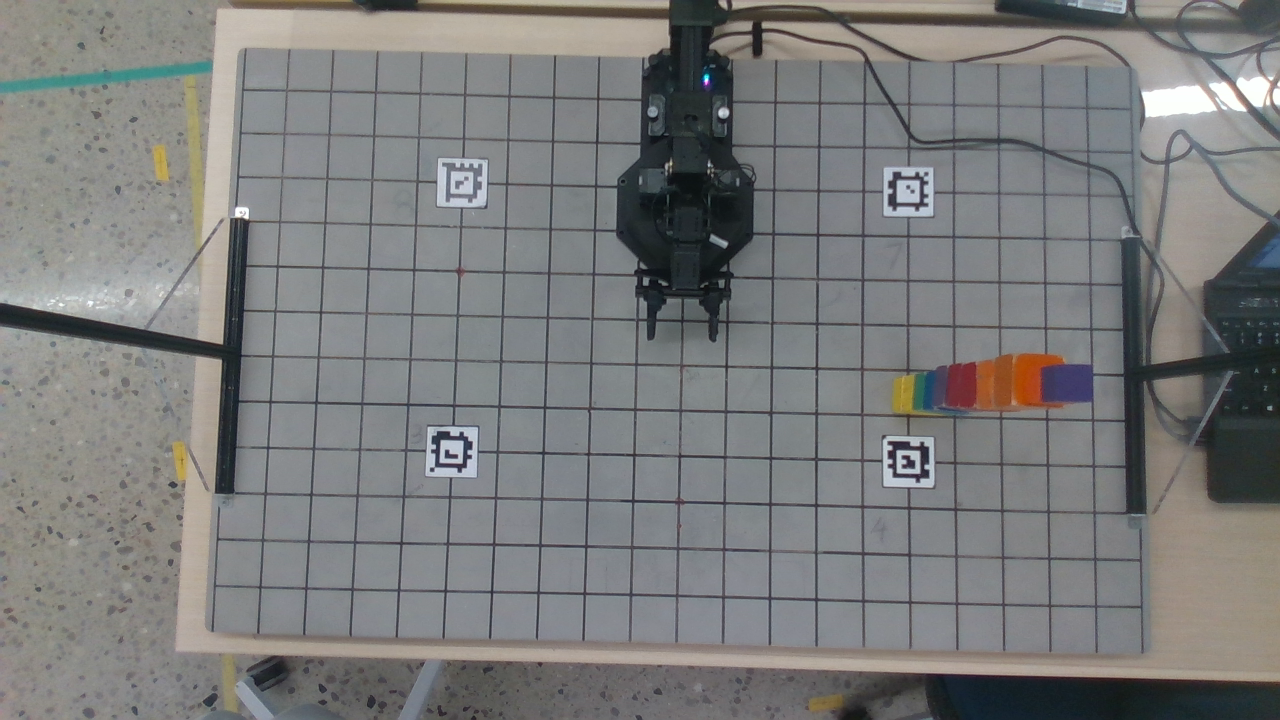
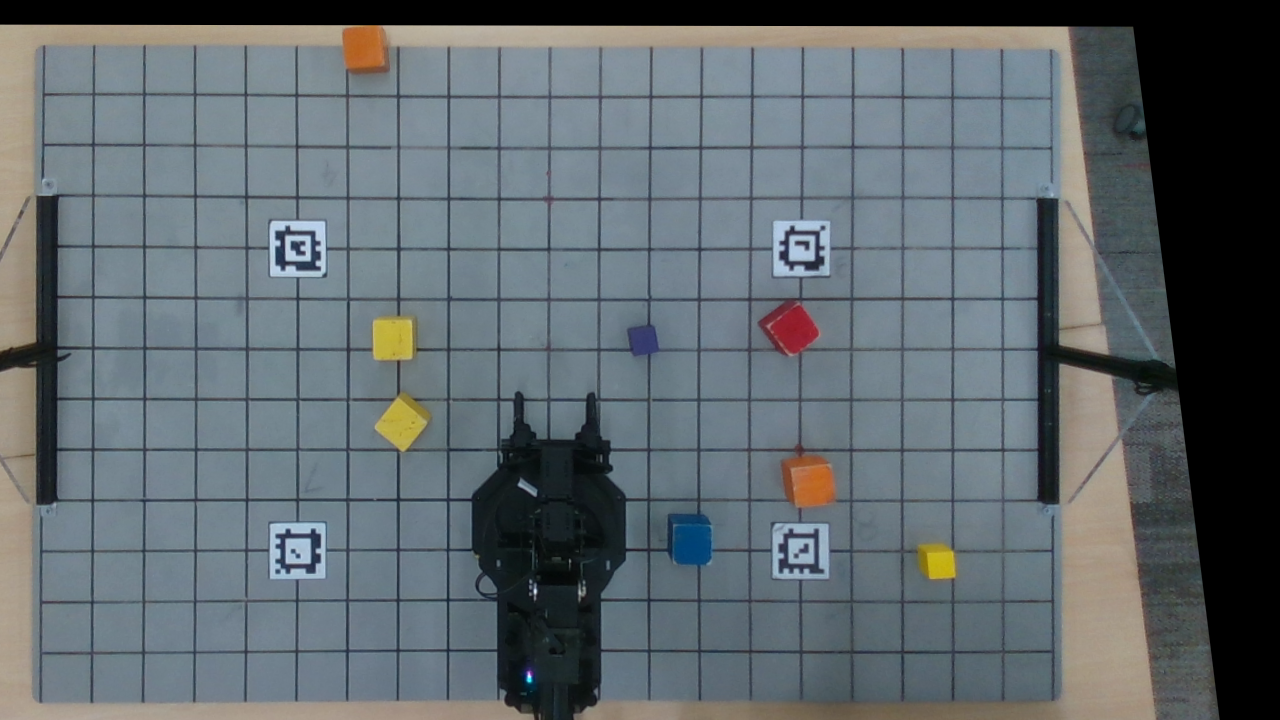
start on validating arm path in the case of nearby obstacle

diff --git a/src/state_machine.py b/src/state_machine.py
@@ -10,6 +10,7 @@ import copy
 import math 
 import cv2
 from kinematics import clamp
+import modern_robotics as mr
 
 
 class StateMachine():
@@ -242,7 +243,6 @@ class StateMachine():
         d = self.camera.DepthFrameRaw[pt[1]][pt[0]]
         print(f"pixelX: {pt[0]}, pixelY: {pt[1]}, depth: {d}")
         self.rxarm.arm.get_joint_positions()
-        print(f"EE angle: {self.rxarm.get_ee_angles()}")
 
 
         self.camera.pixel_to_World(pt[0], pt[1],d) # more accurate
@@ -291,8 +291,6 @@ class StateMachine():
 
     def auto_pick(self, _target_world_pos, block_ori, phi=np.pi/2, double_check=False, to_sky=False):
 
-        # phi = self.rxarm.get_ee_angles()
-        # print(f"phi {phi}")
         
         target_world_pos = copy.deepcopy(_target_world_pos)
         above_world_pos = copy.deepcopy(_target_world_pos)
@@ -310,47 +308,113 @@ class StateMachine():
         ############ Planning #############
         # print("[PICK] Planning waypoints...")
         pick_stable = True
-        pick_height_offset = 100    
+
+        # determine if final pose is reachable, exit if not
+        current_joints = self.rxarm.arm.get_joint_commands()
+
+
+        
+        joint_angles_2, reachable_low = self.rxarm.arm.set_ee_pose_components(x=target_world_pos[1]/1000, # (x,y) plane of robot and world frame is rotated
+                                                                            y=-target_world_pos[0]/1000, # motor's x axis is flipped
+                                                                            z=((target_world_pos[2]/1000)), # position converted to meters
+                                                                            pitch = phi,
+                                                                            moving_time = 4,
+                                                                            execute = False)
+        
+        pick_height_offset = 0
+        if target_world_pos[2] > 100:
+            pick_height_offset = 40  # smaller height offset in case the goal becomes unreachable
+        else:
+            pick_height_offset = 100    
+
         target_world_pos[2] = target_world_pos[2]  + pick_height_offset
+
+
+
+        
+        
+        if not reachable_low:
+            print("final EE pose is not reachable")
+            return
+
+
+
+
+
+        # Define how long the move takes and how many waypoints to check
+        time_in_seconds = 4.0
+        number_of_waypoints = 100 # Higher number = finer resolution for obstacle checking
+
+        #  generates a path to final destination
+        trajectory = mr.JointTrajectory(current_joints, joint_angles_2, time_in_seconds, number_of_waypoints, 3)
+
+        
 
        # reachable_low, reachable_high = False, False
 
         # Try vertical reach with phi = pi/2
         # this function computes the path to get to the final EE and execute it if its valid
-        joint_angles_2, reachable_low = self.rxarm.arm.set_ee_pose_components(x=target_world_pos[1]/1000, # (x,y) plane of robot and world frame is rotated
-                                                                              y=-target_world_pos[0]/1000, # motor's x axis is flipped
-                                                                              z=target_world_pos[2]/1000, # position converted to meters
-                                                                              pitch = phi,
-                                                                              moving_time =2,
-                                                                              blocking= True,
-                                                                              execute = True)
+        # joint_angles_2, reachable_low = self.rxarm.arm.set_ee_pose_components(x=target_world_pos[1]/1000, # (x,y) plane of robot and world frame is rotated
+        #                                                                       y=-target_world_pos[0]/1000, # motor's x axis is flipped
+        #                                                                       z=(target_world_pos[2])/1000, # position converted to meters
+        #                                                                       pitch = phi,
+        #                                                                       moving_time =2,
+        #                                                                       blocking= True,
+        #                                                                       execute = True)
     
+        for angles in trajectory:
+            self.rxarm.set_positions(angles)
+            
+
+        # TODO: inside this function, check if there's obstacles. if so, don't execute the motor command
+        # success = self.rxarm.arm.set_ee_cartesian_trajectory(x=target_world_pos[1]/1000, # (x,y) plane of robot and world frame is rotated
+        #                                             y=-target_world_pos[0]/1000, # motor's x axis is flipped
+        #                                             z=(target_world_pos[2])/1000, # position converted to meters
+        #                                             pitch = phi,
+        #                                             moving_time =2)
+
+        # if success is False:
+        #     print("path to goal failed in autopick")
+        #     return
+        
+
         # EE descends to grab the object
-        descend_offset = (-pick_height_offset+10)/1000  
-        print(f"descending angles: {joint_angles_2} ")
+        descend_offset = (-pick_height_offset)/1000  
         print("EE descending")        
-        move_time, ac_time = self.calMoveTime(joint_angles_2)
 
         # TODO: orient the wrist to align with object orientation before grasping
-        phi = self.rxarm.get_ee_angles()
-        print(f"before EE phi {phi}")
-        joint_angles_2[-1] = clamp(-joint_angles_2[0]) # parallel to x axis
+        joint_angles_2, valid = self.rxarm.arm.set_ee_pose_components(x=target_world_pos[1]/1000, # (x,y) plane of robot and world frame is rotated
+                                                                            y=-target_world_pos[0]/1000, # motor's x axis is flipped
+                                                                            z=((target_world_pos[2]/1000)), # position converted to meters
+                                                                            pitch = phi,
+                                                                            moving_time = 4,
+                                                                            execute = False)
+        if valid is False:
+            print("failed to descend arm")
+            return
+        
+        print(f"joint angles from path: {joint_angles_2}")
+     
+        joint_angles_2[-1] = joint_angles_2[0] # parallel to x axis
+        print(f"joint angle base: {joint_angles_2[0]}")
 
-       # self.rxarm.arm._publish_commands(joint_angles_2, moving_time=2, accel_time=0, blocking=True)
-        self.rxarm.arm.set_single_joint_position("wrist_rotate", -phi, moving_time=2, accel_time=0, blocking=True)
 
-        phi = self.rxarm.get_ee_angles()
-        print(f"after EE phi {phi}")
 
+        # orient the wrist before descend
+        self.rxarm.arm._publish_commands(joint_angles_2, moving_time=2, accel_time=0, blocking=True)
+
+
+        #TODO: check for obstacle before descending
+        # maintain the orientation while descending
+
+        
         joint_angles_2, reachable_low = self.rxarm.arm.set_ee_pose_components(x=target_world_pos[1]/1000, # (x,y) plane of robot and world frame is rotated
                                                                               y=-target_world_pos[0]/1000, # motor's x axis is flipped
                                                                               z=((target_world_pos[2]/1000)+descend_offset), # position converted to meters
                                                                               pitch = phi,
+                                                                              roll = joint_angles_2[0],
                                                                               moving_time = 4,
                                                                               execute = True)
-
-
-
 
         self.rxarm.gripper_grasp()
         return

diff --git a/src/camera.py b/src/camera.py
@@ -91,6 +91,7 @@ class Camera():
         # homography transformation variables
         self.homography = False
         self.H = None
+        self.H_inv = None
 
         # maximum depth from camera to board, used for calculating z
         self.max_depth = None
@@ -153,6 +154,8 @@ class Camera():
             matrix_str = np.array2string(H, precision=4, suppress_small=True)
             f.write(matrix_str)
         self.H = H
+        self.H_inv = np.linalg.inv(H)
+
        # new_img = cv2.warpPerspective(image, H, (1100, image.shape[0]))
 
         new_img = cv2.warpPerspective(image, H, (image.shape[1], image.shape[0]))
@@ -164,13 +167,12 @@ class Camera():
         """undo homography transformation to convert the pixel coordiantes to correct world coordinates"""
 
         # 1. Compute the Inverse Matrix
-        H_inv = np.linalg.inv(self.H)
         
         # 2. Prepare the warped point in homogeneous coordinates
         point = np.array([u_warped, v_warped, 1.0]).reshape(3, 1)
         
         # 3. Transform back to raw pixel space
-        raw_pt_h = H_inv @ point
+        raw_pt_h = self.H_inv @ point
         
         # 4. Perspective division (normalize the coordinates)
         u_raw = raw_pt_h[0] / raw_pt_h[2]

diff --git a/src/arm.py b/src/arm.py
@@ -763,16 +763,10 @@ class InterbotixArmXSInterface:
         return mr.FKinSpace(self.robot_des.M, self.robot_des.Slist, joint_states)
 
 
-    def get_ee_angles(self):
-        T = self.get_ee_pose()
+    def check_obstacle(self, joint_angles):
+        T = mr.FKinSpace(self.robot_des.M, self.robot_des.Slist, joint_angles)
 
-        # Extract the rotation components
-        r31 = T[2, 0]
-        r33 = T[2, 2]
-
-        # Phi is the global pitch of the end effector
-        phi = np.arctan2(-r31, r33)
-        return phi
+        # TODO: compute Fk for all joints to get arm's pose
 
 
     def capture_joint_positions(self) -> None:
